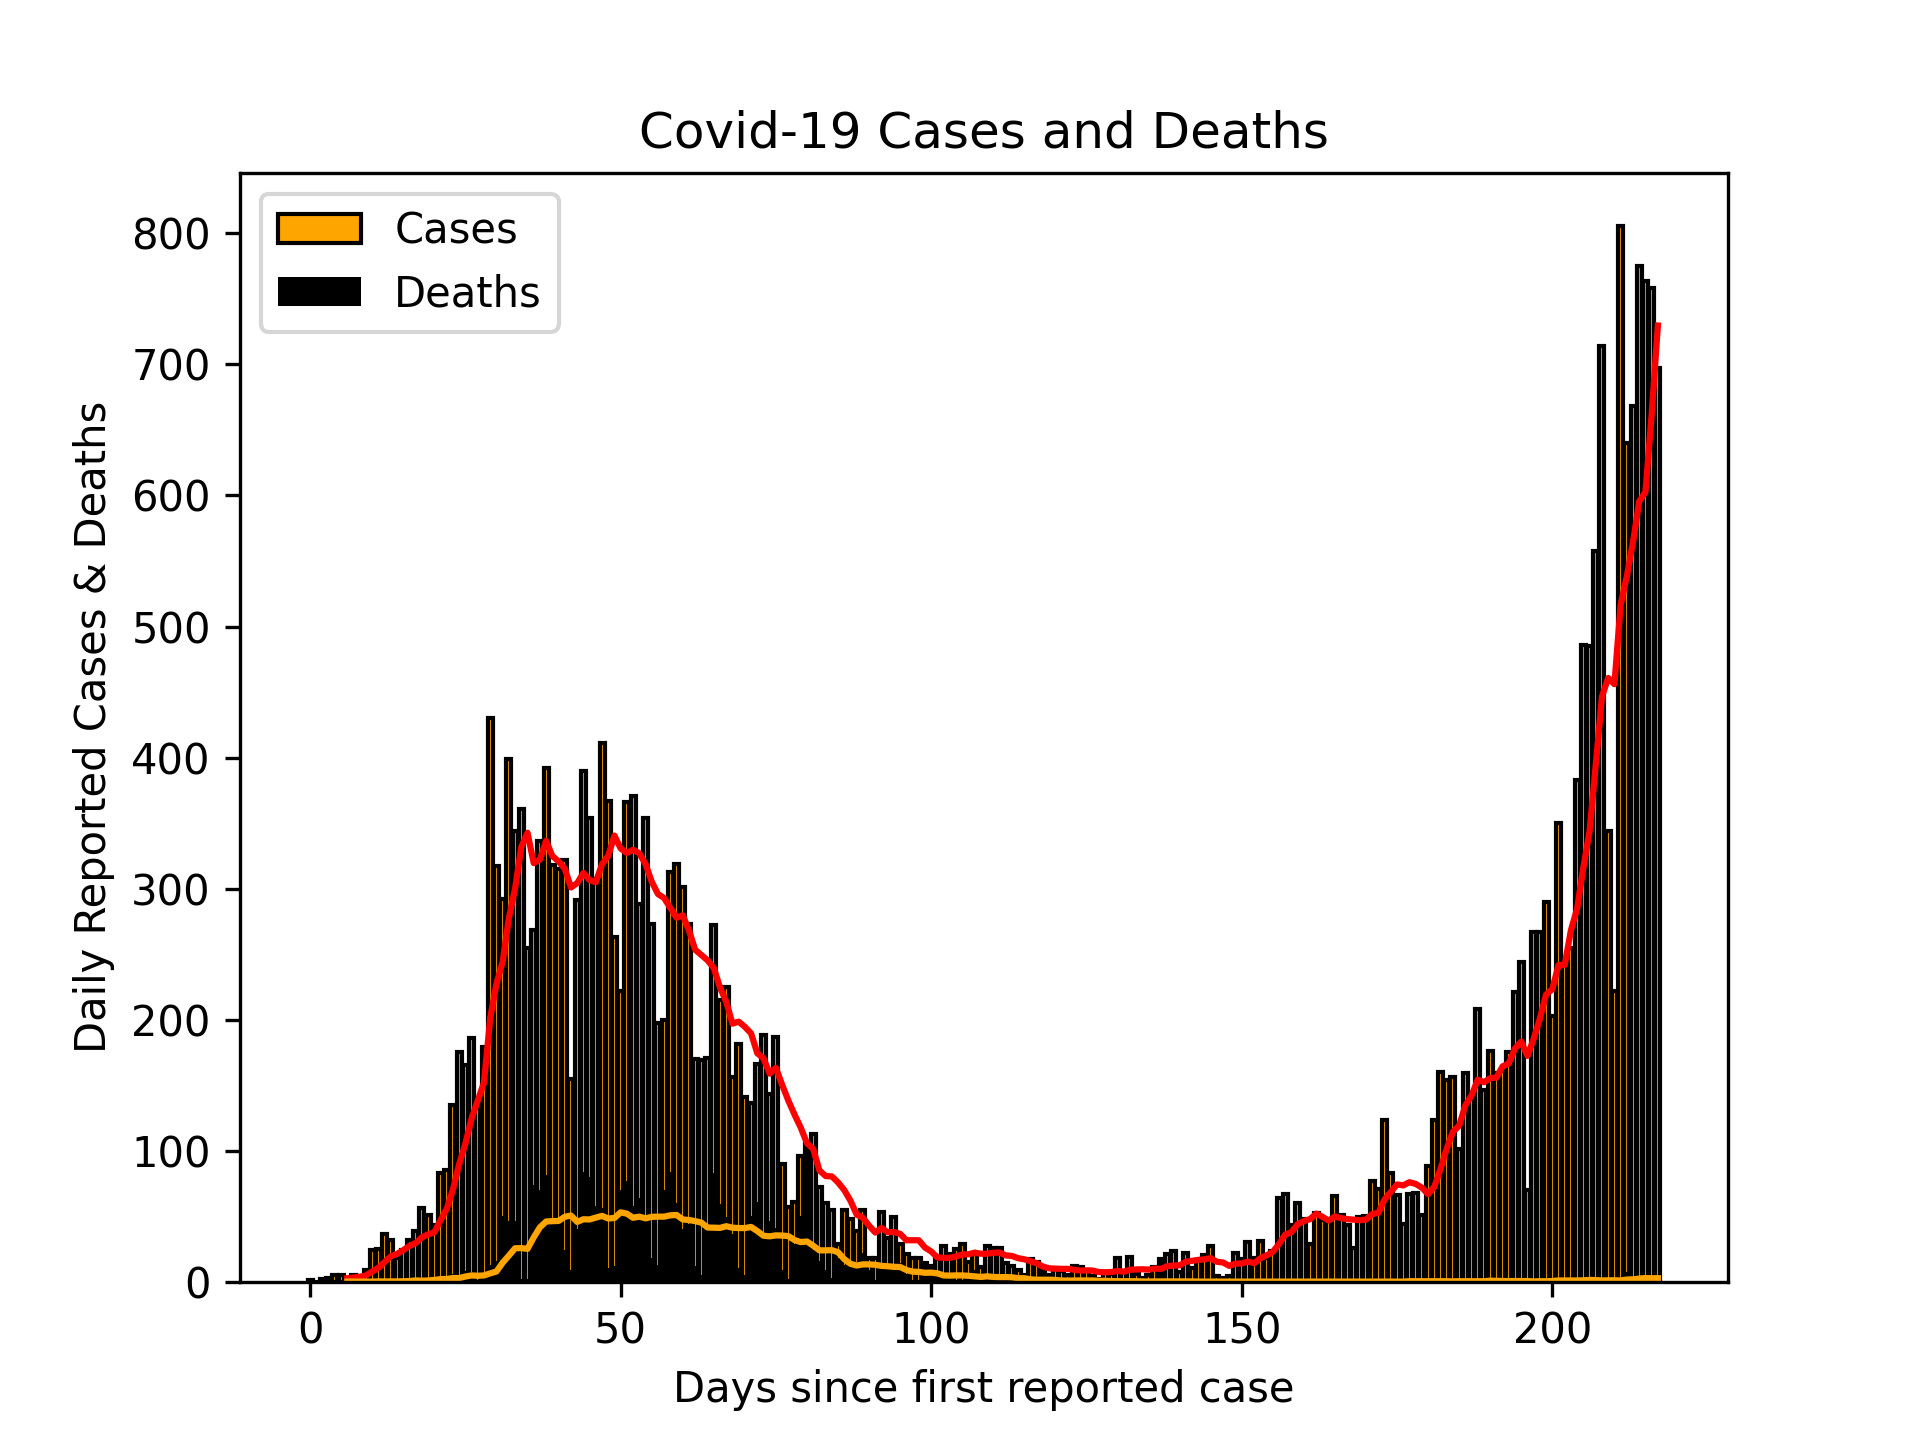
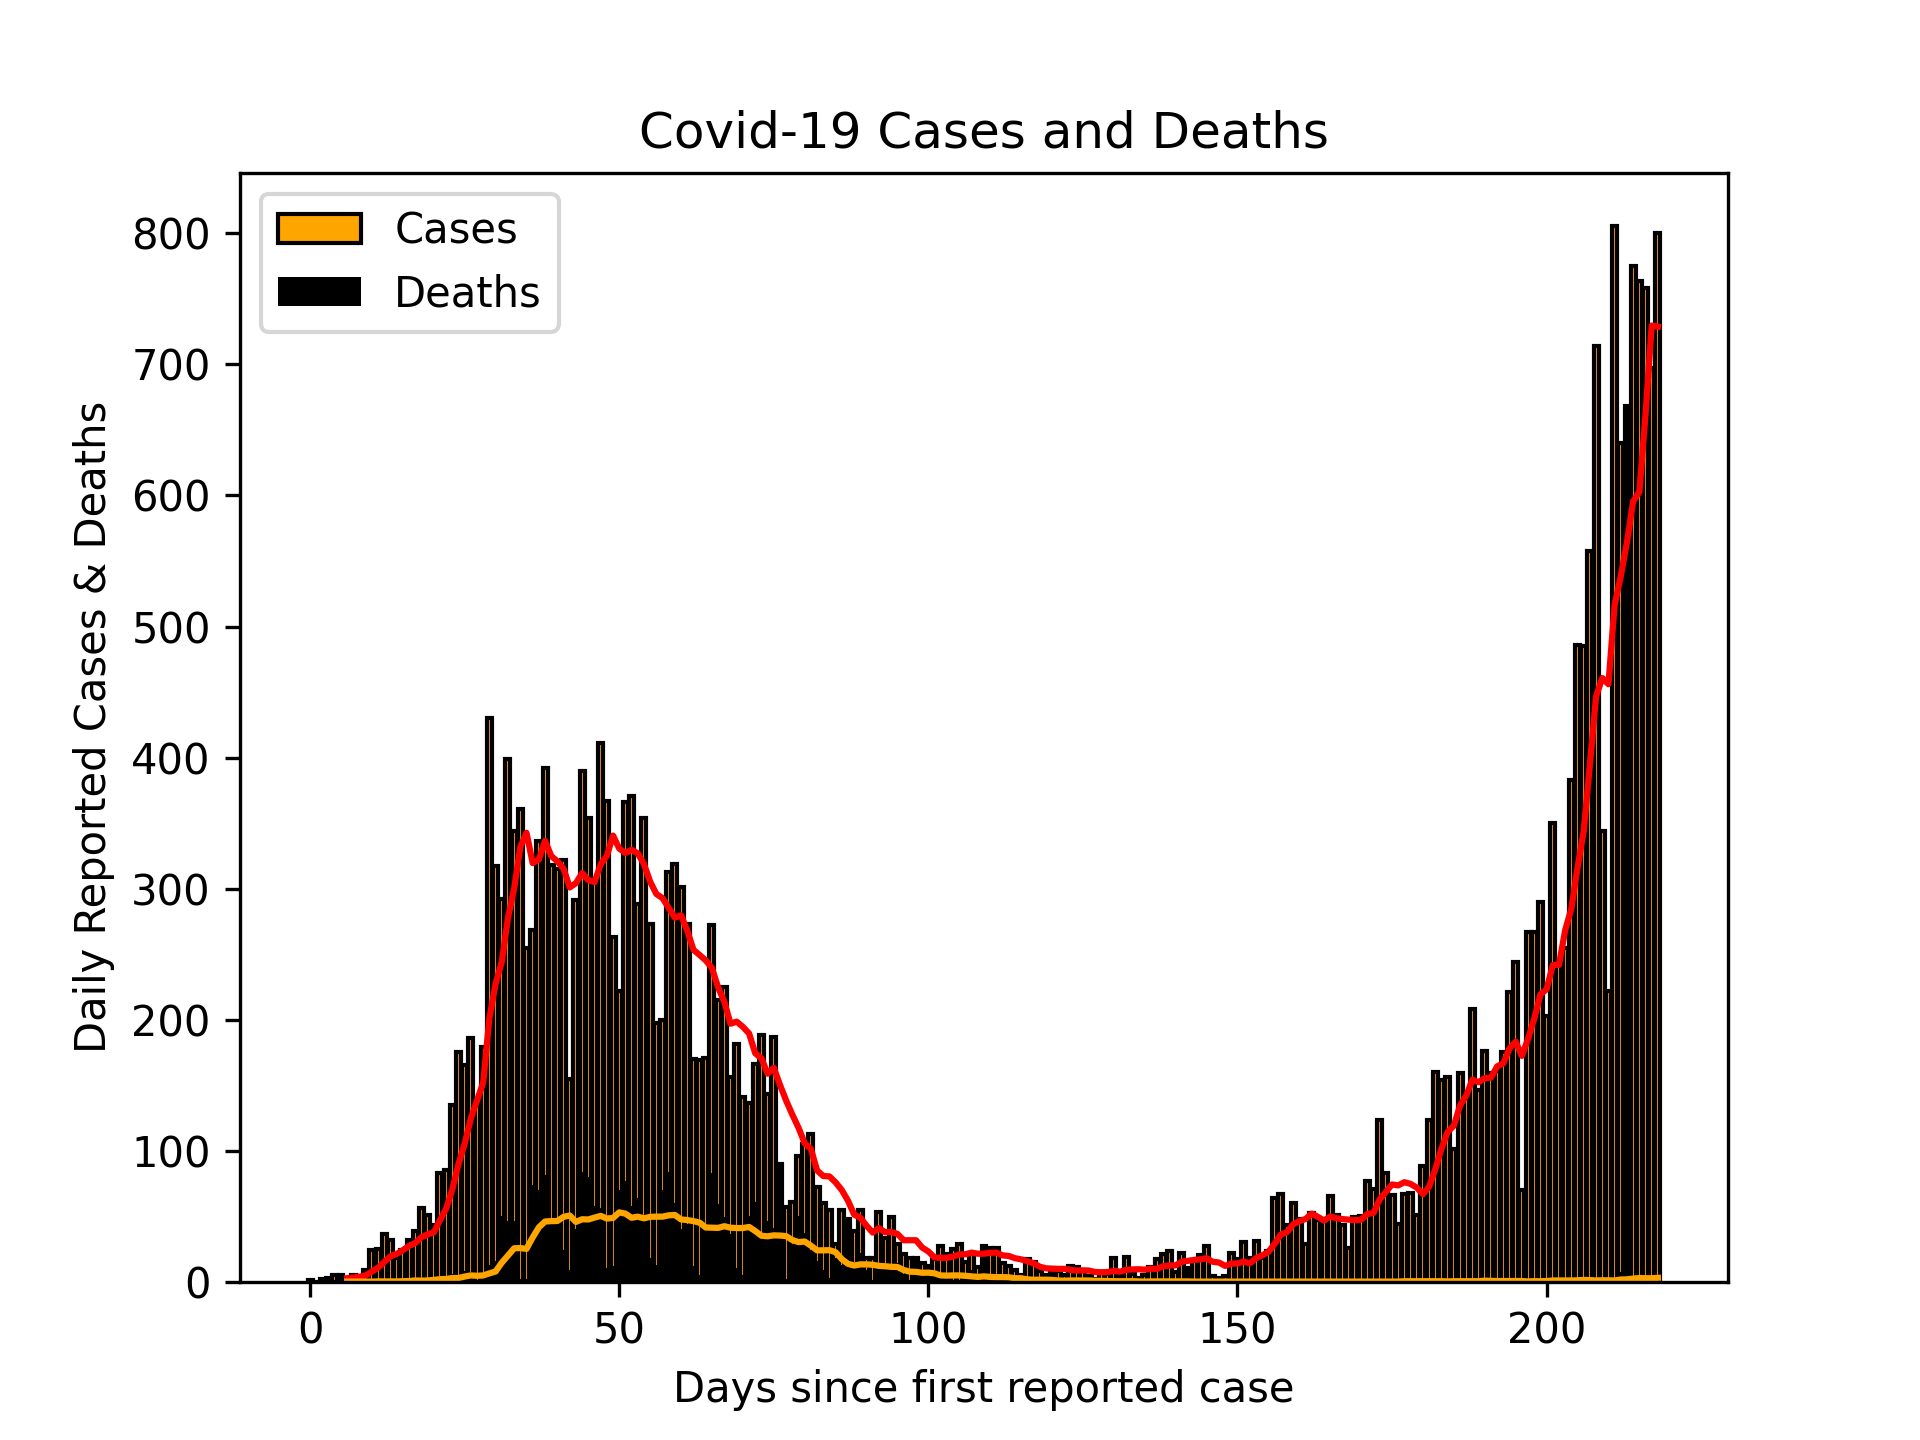
Updated Scottish cases 06/10/20

Changed region(s): [[0.2188, 0.1562, 0.875, 0.9375], [0.3125, 0.9062, 0.3438, 0.9375]]

diff --git a/README.md b/README.md
@@ -1,3 +1,3 @@
-# Scottish Cases 05/10/20
+# Scottish Cases 06/10/20
 ![alt](scottish_cases.png)
 
